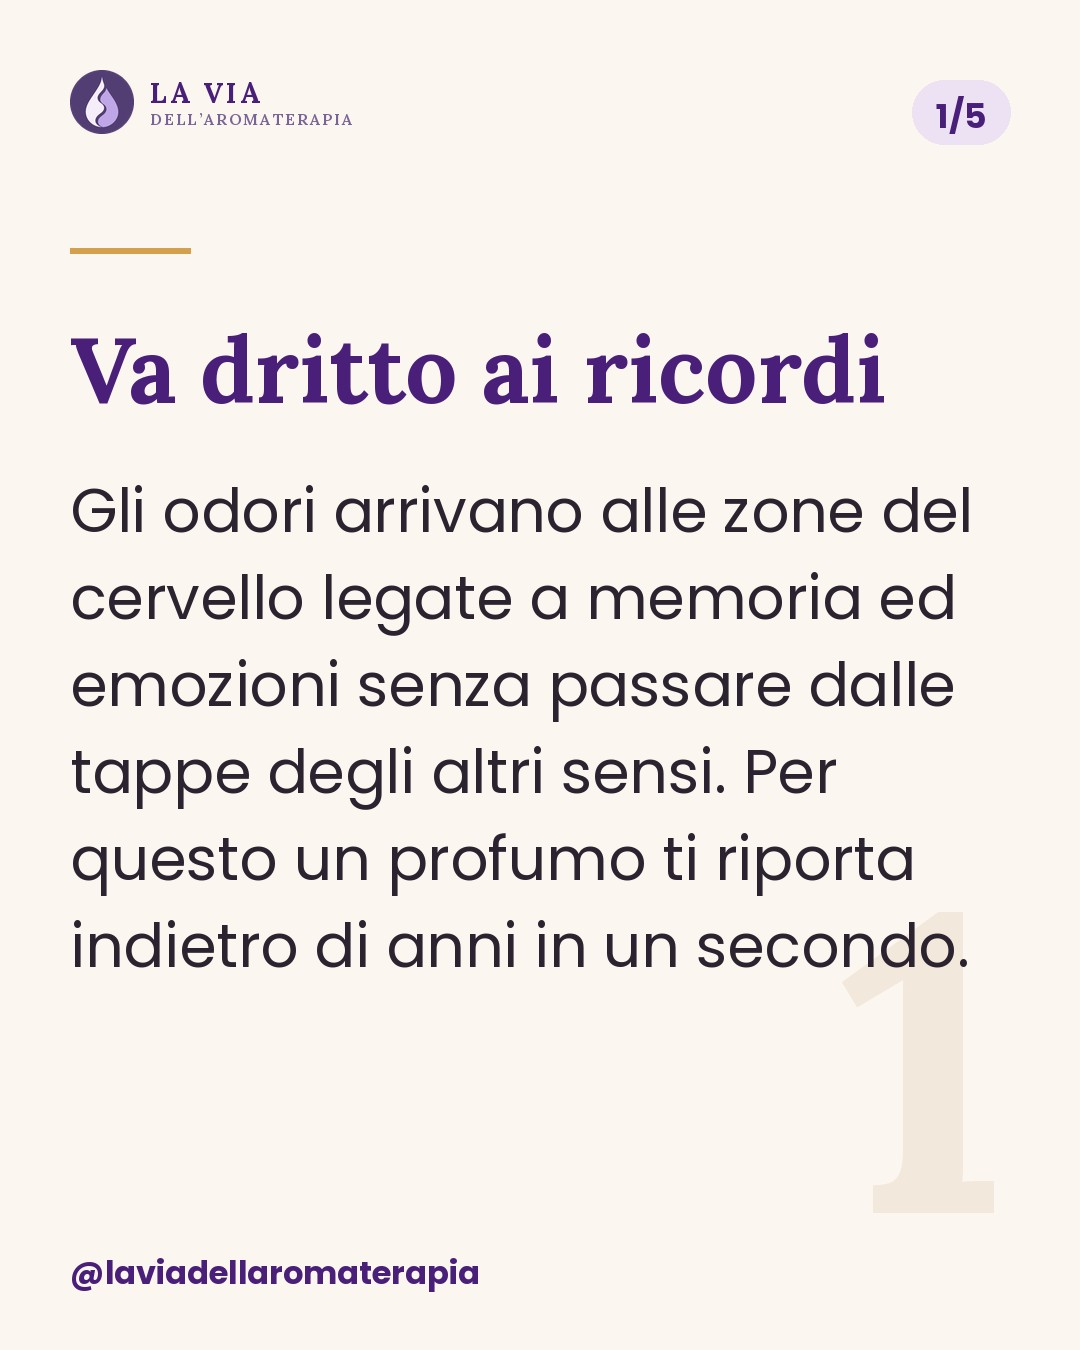
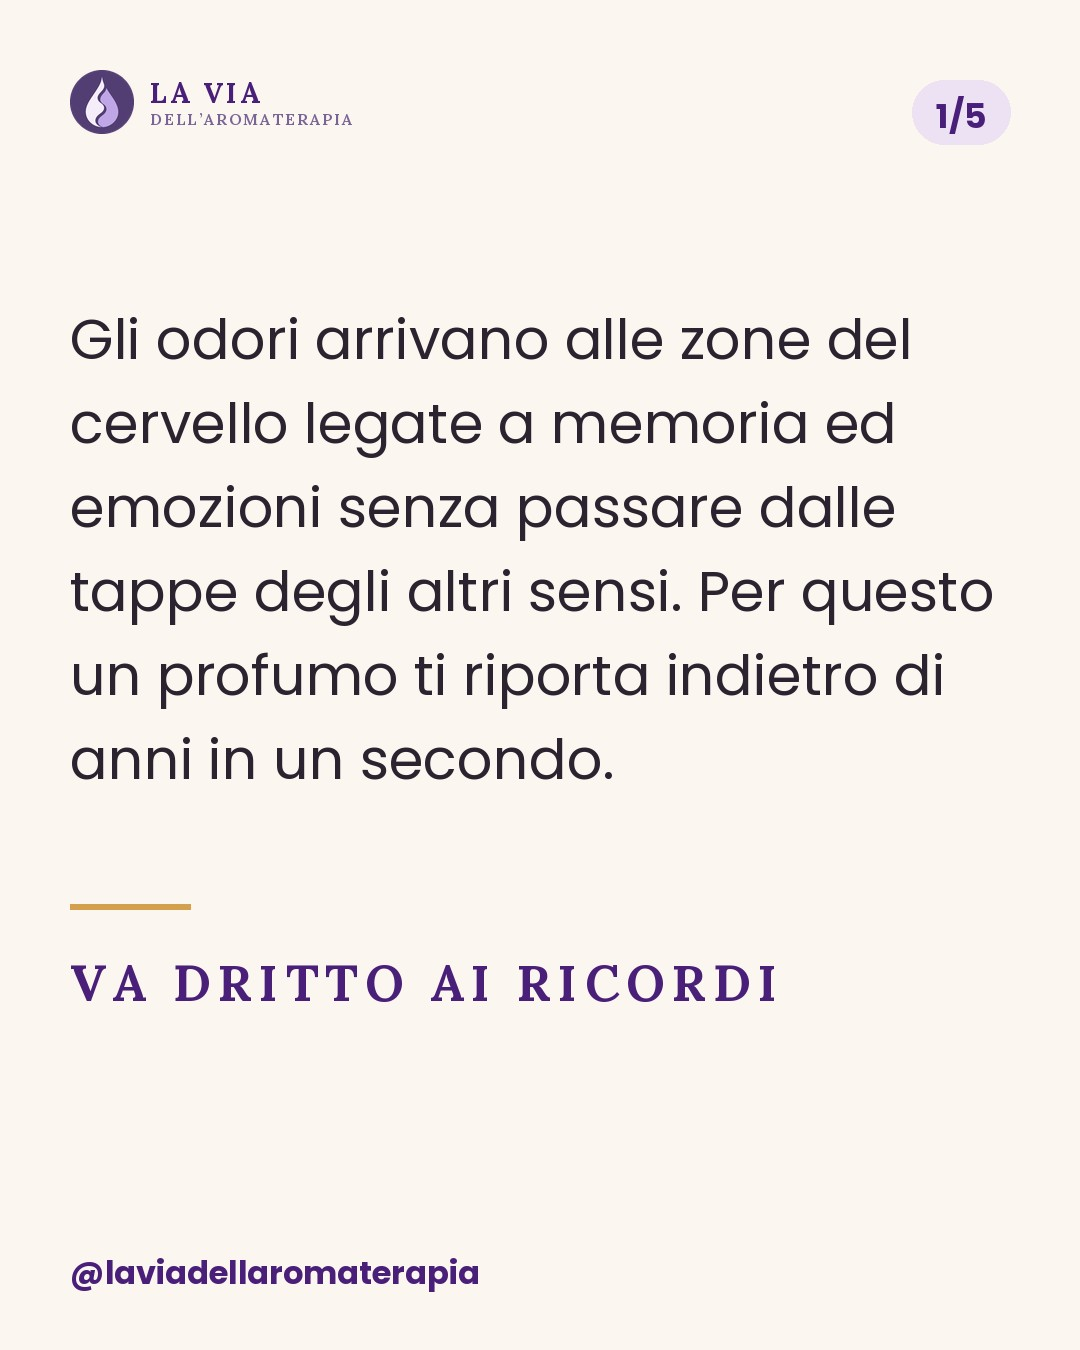
reel.py v5.1: tre stili di post (atmosfera, botanico, testo), titoli dei reel in tre posizioni; post del 10/11 rifatti e didascalie Facebook
Claude-Session: https://claude.ai/code/session_01CxmAQvx5iNWkio9HFXeYNM

Changed region(s): [[0.0611, 0.2178, 0.9167, 0.5911], [0.0611, 0.6222, 0.8861, 0.7467]]

diff --git a/drive/automazione/reel.py b/drive/automazione/reel.py
@@ -1683,6 +1683,166 @@ def reel_v43(c, out, audio=None, frames=False):
     global _STAG
     _STAG = stagione(c); print("STAGIONE:", _STAG); return _reel_v43_0(c, out, audio, frames)
 
+
+# ===== v5.1 (10/11): tre stili di post e posizioni diverse dei titoli =====
+# Stili dei post (campo "stile", altrimenti dal pilastro):
+#   "atmosfera" (umano, emozione, cosmo, rituale): foto a tutta pagina velata, titolo al CENTRO, una parola chiave in maiuscolo spaziato
+#   "botanico"  (pianta): foto della pianta o dell'olio, logo piccolo al centro in alto, titolo in corsivo IN ALTO
+#   "testo"     (sensi, strategia): solo testo sulla tinta della stagione, titolo IN BASSO a sinistra
+# Reel: "pos" = "alto" | "centro" | "basso" sposta il titolo della copertina (default dalla rubrica).
+STILE_PILASTRO = {"umano": "atmosfera", "emozione": "atmosfera", "cosmo": "atmosfera", "rituale": "atmosfera",
+                  "pianta": "botanico", "sensi": "testo", "strategia": "testo"}
+POS_RUBRICA = {"momento": "basso", "comesifa": "alto", "blend": "centro", "faidate": "basso", "mito": "alto",
+               "rituale": "centro", "scheda": "basso", "pillola": "alto"}
+
+def _tw(d, text, f, track): return sum(d.textlength(ch, font=f) for ch in text) + f.size * track * max(0, len(text) - 1)
+
+def tracked(d, text, f, y, color, maxw, track=0.14, x=None, width=W, gap=1.3):
+    """testo con lettere spaziate, a capo; centrato se x e' None"""
+    lines, cur = [], ""
+    for w in text.split():
+        t = (cur + " " + w).strip()
+        if _tw(d, t, f, track) <= maxw or not cur: cur = t
+        else: lines.append(cur); cur = w
+    if cur: lines.append(cur)
+    for ln in lines:
+        xx = (width - _tw(d, ln, f, track)) / 2 if x is None else x
+        for ch in ln:
+            d.text((xx, y), ch, font=f, fill=color); xx += d.textlength(ch, font=f) + f.size * track
+        y += int(f.size * gap)
+    return y
+
+def _fit_tracked(d, text, size, maxw, lines, weight="Bold", track=0.14):
+    while size > 34:
+        f = serif(size, weight); n, cur = 1, ""
+        for w in text.split():
+            t = (cur + " " + w).strip()
+            if _tw(d, t, f, track) <= maxw or not cur: cur = t
+            else: n += 1; cur = w
+        if n <= lines and all(_tw(d, w, f, track) <= maxw for w in text.split()): return f
+        size -= 4
+    return serif(34, weight)
+
+def serif_it(size, weight="Medium"):
+    f = font("Lora-Italic-Variable.ttf", size)
+    try: f.set_variation_by_name(weight)
+    except Exception: pass
+    return f
+
+def thin_arrow(d, x0, x1, y, color):
+    d.line((x0, y, x1, y), fill=color, width=3); d.line((x1 - 22, y - 13, x1, y), fill=color, width=3); d.line((x1 - 22, y + 13, x1, y), fill=color, width=3)
+
+def _logo_centro(im, y=70, size=76):
+    lg = logo(size); im.paste(lg, ((im.size[0] - size) // 2, y), lg)
+
+def stile_post(p): return p.get("stile") or STILE_PILASTRO.get(p.get("pilastro"), "testo")
+
+# --- copertine ---
+def cover_atmosfera(p, ph):
+    w, h = W, CH; im = photo(ph, w, h).filter(ImageFilter.GaussianBlur(1.2)); im = shade(im, top=0.35, bottom=0.6, start=0.45, flat=0.38, color=(24, 16, 34))
+    header_white(im, y=70); d = ImageDraw.Draw(im); t = p["titolo"]; k = (p.get("parola") or "").upper()
+    ft = _fit_serif(d, t, 78, 860, 3, "SemiBold"); fk = _fit_tracked(d, k, 108, 900, 2) if k else None
+    th = len(wrap(d, t, ft, 860)) * int(ft.size * 1.18); y0 = int(h * 0.40 - th / 2 - (70 if k else 0))
+    def draw(dd, col, dx, dy):
+        y = block(dd, t, ft, y0 + dy, col or WHITE, maxw=860, gap=1.18, width=w)
+        if k: tracked(dd, k, fk, y + 34 + dy, col or S()["luce"], 900, width=w)
+        if p.get("sub"): block(dd, p["sub"], _fit_serif(dd, p["sub"], 50, 880, 2, "Medium"), int(h * 0.80) + dy, col or WHITE, maxw=880, width=w)
+    shadow_text(im, draw); thin_arrow(ImageDraw.Draw(im), w - 300, w - 90, h - 110, WHITE); return im
+
+def cover_botanico(p, ph):
+    w, h = W, CH; im = shade(photo(ph, w, h), top=0.0, flat=0.0); g = Image.new("L", (1, h))
+    for y in range(h): g.putpixel((0, y), int(255 * max(0.0, 0.72 * (1 - y / (h * 0.62)))))
+    im = Image.composite(Image.new("RGB", (w, h), (24, 16, 34)), im, g.resize((w, h))); _logo_centro(im)
+    d = ImageDraw.Draw(im); t = p["titolo"]; ft = serif_it(74, "Medium")
+    while len(wrap(d, t, ft, 800)) > 3 and ft.size > 44: ft = serif_it(ft.size - 4, "Medium")
+    def draw(dd, col, dx, dy):
+        y = tracked(dd, t, ft, 200 + dy, col or WHITE, 800, track=0.05, width=w, gap=1.28)
+        if not col: dd.line(((w - 70) // 2, y + 22, (w + 70) // 2, y + 22), fill=S()["luce"], width=3)
+        if p.get("sub"): tracked(dd, p["sub"].upper(), font("Poppins-Bold.ttf", 26), y + 56 + dy, col or S()["luce"], 820, track=0.2, width=w)
+    shadow_text(im, draw); thin_arrow(ImageDraw.Draw(im), w - 300, w - 90, h - 110, WHITE); return im
+
+def cover_testo(p, ph=None):
+    w, h = W, CH; im = Image.new("RGB", (w, h), S()["tinta"]); d = ImageDraw.Draw(im); _brand_dark(im)
+    tracked(d, PILASTRI.get(p.get("pilastro"), p.get("etichetta", "CURIOSITÀ")), font("Poppins-Bold.ttf", 26), 86, VLOGO, 500, track=0.2, x=w - 70 - _tw(d, PILASTRI.get(p.get("pilastro"), p.get("etichetta", "CURIOSITÀ")), font("Poppins-Bold.ttf", 26), 0.2))
+    t = p["titolo"]; ft = _fit_serif(d, t, 124, 940, 4); lines = wrap(d, t, ft, 940); sub = p.get("sub")
+    fs = font("Poppins-Regular.ttf", 44); sh = (len(wrap(d, sub, fs, 900)) * int(fs.size * 1.35) + 36) if sub else 0
+    y0 = h - 170 - sh - len(lines) * int(ft.size * 1.08)
+    d.line([(70, y0 - 50), (210, y0 - 50)], fill=S()["accento"], width=6)
+    y = block(d, t, ft, y0, PURPLE, maxw=940, gap=1.08, x=70)
+    if sub: block(d, sub, fs, y + 30, BODY, maxw=900, gap=1.35, x=70)
+    thin_arrow(d, w - 300, w - 90, h - 100, PURPLE); return im
+
+# --- slide interne ---
+def slide_atmosfera(i, n, s, ph):
+    w, h = W, CH; im = photo(ph, w, h).filter(ImageFilter.GaussianBlur(6)); im = shade(im, flat=0.62, color=(24, 16, 34))
+    header_white(im, y=70); d = ImageDraw.Draw(im); pill(d, f"{i}/{n}", w - 70, 80)
+    ft = _fit_tracked(d, s["title"].upper(), 58, 900, 3, track=0.12); fb = fit(d, s["body"], "Poppins-Regular.ttf", 54, 900, 9)
+    hh = len(wrap(d, s["body"], fb, 900)) * int(fb.size * 1.5) + 190
+    y = tracked(d, s["title"].upper(), ft, int((h - hh) / 2), S()["luce"], 900, track=0.12, x=90, gap=1.3)
+    block(d, s["body"], fb, y + 40, (244, 238, 250), maxw=900, gap=1.5, x=90); return im
+
+def slide_botanico(i, n, s):
+    w, h = W, CH; im = Image.new("RGB", (w, h), S()["tinta"]); d = ImageDraw.Draw(im); _logo_centro(im)
+    tracked(d, f"{i} / {n}", font("Poppins-Bold.ttf", 24), 172, VLOGO, 300, track=0.2, width=w)
+    ft = serif_it(70, "Medium")
+    while len(wrap(d, s["title"], ft, 860)) > 2 and ft.size > 46: ft = serif_it(ft.size - 4, "Medium")
+    y = block(d, s["title"], ft, 330, PURPLE, maxw=860, gap=1.2, width=w)
+    d.line(((w - 70) // 2, y + 26, (w + 70) // 2, y + 26), fill=S()["accento"], width=4)
+    block(d, s["body"], fit(d, s["body"], "Poppins-Regular.ttf", 52, 860, 9), y + 76, BODY, maxw=860, gap=1.5, width=w)
+    f = font("Poppins-Bold.ttf", 30); t = "@laviadellaromaterapia"; d.text(((w - d.textlength(t, font=f)) / 2, h - 100), t, font=f, fill=PURPLE); return im
+
+def slide_testo(i, n, s):
+    w, h = W, CH; im = Image.new("RGB", (w, h), S()["tinta"]); d = ImageDraw.Draw(im); _brand_dark(im); pill(d, f"{i}/{n}", w - 70, 80)
+    fb = fit(d, s["body"], "Poppins-Regular.ttf", 56, 940, 9)
+    y = block(d, s["body"], fb, 300, BODY, maxw=940, gap=1.5, x=70)
+    ft = _fit_tracked(d, s["title"].upper(), 50, 940, 2, track=0.14)
+    yk = max(y + 110, h - 400); d.line([(70, yk - 44), (190, yk - 44)], fill=S()["accento"], width=6)
+    tracked(d, s["title"].upper(), ft, yk, PURPLE, 940, track=0.14, x=70)
+    d.text((70, h - 100), "@laviadellaromaterapia", font=font("Poppins-Bold.ttf", 32), fill=PURPLE); return im
+
+def end_stile(p, ph, stile):
+    if stile != "testo": return post_end(p, ph)
+    w, h = W, CH; im = Image.new("RGB", (w, h), DEEP); d = ImageDraw.Draw(im); _logo_centro(im, y=250, size=140); q = p["domanda"]
+    y = block(d, q, _fit_serif(d, q, 80, 880, 4), 470, WHITE, maxw=880, gap=1.14, width=w)
+    y = block(d, p.get("riga1") or "Rispondi nei commenti", font("Poppins-Bold.ttf", 42), y + 50, S()["luce"], maxw=860, width=w)
+    block(d, p.get("riga2") or "e salva il post per rileggerlo", font("Poppins-Regular.ttf", 38), y + 16, SOFTW, maxw=860, width=w)
+    f = font("Poppins-Bold.ttf", 36); t = "@laviadellaromaterapia"; d.text(((w - d.textlength(t, font=f)) / 2, h - 110), t, font=f, fill=SOFTW); return im
+
+def post_carousel(p, outdir):
+    global _STAG
+    _STAG = stagione(p); controllo_post(p); os.makedirs(outdir, exist_ok=True); seed = p["titolo"]; st = stile_post(p)
+    fc, fe = PIL_FOTO.get(p.get("pilastro"), ("erbe", "candele")); fo = p.get("foto", {})
+    if st == "atmosfera" and not fo.get("cover"): fc = "luna" if p.get("pilastro") == "cosmo" else foto_stagione(p)
+    cov = pick_photo(fo.get("cover", fc), seed); end = pick_photo(fo.get("end", foto_stagione(p)), seed + "e", (cov,))
+    n = len(p["slides"])
+    if st == "atmosfera": ims = [cover_atmosfera(p, cov)] + [slide_atmosfera(i + 1, n, s, cov) for i, s in enumerate(p["slides"])]
+    elif st == "botanico": ims = [cover_botanico(p, cov)] + [slide_botanico(i + 1, n, s) for i, s in enumerate(p["slides"])]
+    else: ims = [cover_testo(p)] + [slide_testo(i + 1, n, s) for i, s in enumerate(p["slides"])]
+    ims.append(end_stile(p, end, st)); paths = []
+    for k, im in enumerate(ims):
+        q = os.path.join(outdir, f"slide_{k + 1:02d}.jpg"); im.convert("RGB").save(q, "JPEG", quality=90); paths.append(q)
+    print("\n".join(paths)); print("STAGIONE:", _STAG); print("STILE:", st, "· titolo", {"atmosfera": "al centro", "botanico": "in alto", "testo": "in basso"}[st]); print("FOTO_USATE:", f"{cov},{end}")
+
+# --- copertina dei reel con posizione del titolo ---
+def v4_cover(c, ph):
+    pos = c.get("pos") or POS_RUBRICA.get(c.get("rubrica"), "basso")
+    kw = {"basso": dict(top=0.6, bottom=0.9, start=0.28), "alto": dict(top=0.0, bottom=0.55, start=0.5, flat=0.0), "centro": dict(top=0.5, bottom=0.6, start=0.5, flat=0.42)}[pos]
+    im = photo(ph)
+    if pos == "alto":
+        g = Image.new("L", (1, H))
+        for y in range(H): g.putpixel((0, y), int(255 * max(0.0, 0.86 * (1 - y / (H * 0.62)))))
+        im = Image.composite(Image.new("RGB", (W, H), (28, 18, 40)), im, g.resize((W, H)))
+    im = shade(im, **kw); header_white(im); d = ImageDraw.Draw(im)
+    fh = tfit(d, c["hook"], 108, SW, 5); lines = wrap(d, c["hook"], fh, SW)
+    fs = font("Poppins-Bold.ttf", 44); sl = wrap(d, c.get("sub", ""), fs, SW) if c.get("sub") else []
+    hh = len(lines) * int(fh.size * 1.12) + (26 + len(sl) * int(fs.size * 1.22) if sl else 0)
+    y0 = {"basso": SY1 - hh, "alto": SY0 + 230, "centro": int((SY0 + SY1 - hh) / 2) + 50}[pos]
+    etichetta(d, (c.get("serie") or RUBRICHE.get(c.get("rubrica"), "Il consiglio del giorno")).upper(), SX0, y0 - 96)
+    def draw(dd, col, dx, dy):
+        yy = block(dd, c["hook"], fh, y0 + dy, col or WHITE, maxw=SW, gap=1.12, x=SX0 + dx)
+        if sl: block(dd, c["sub"], fs, yy + 26 + dy, col or S()["luce"], maxw=SW, x=SX0 + dx)
+    shadow_text(im, draw); return im, SY1
+
 def main():
     args = [a for a in sys.argv[1:] if not a.startswith("--")]
     if "--evidenza" in sys.argv:
